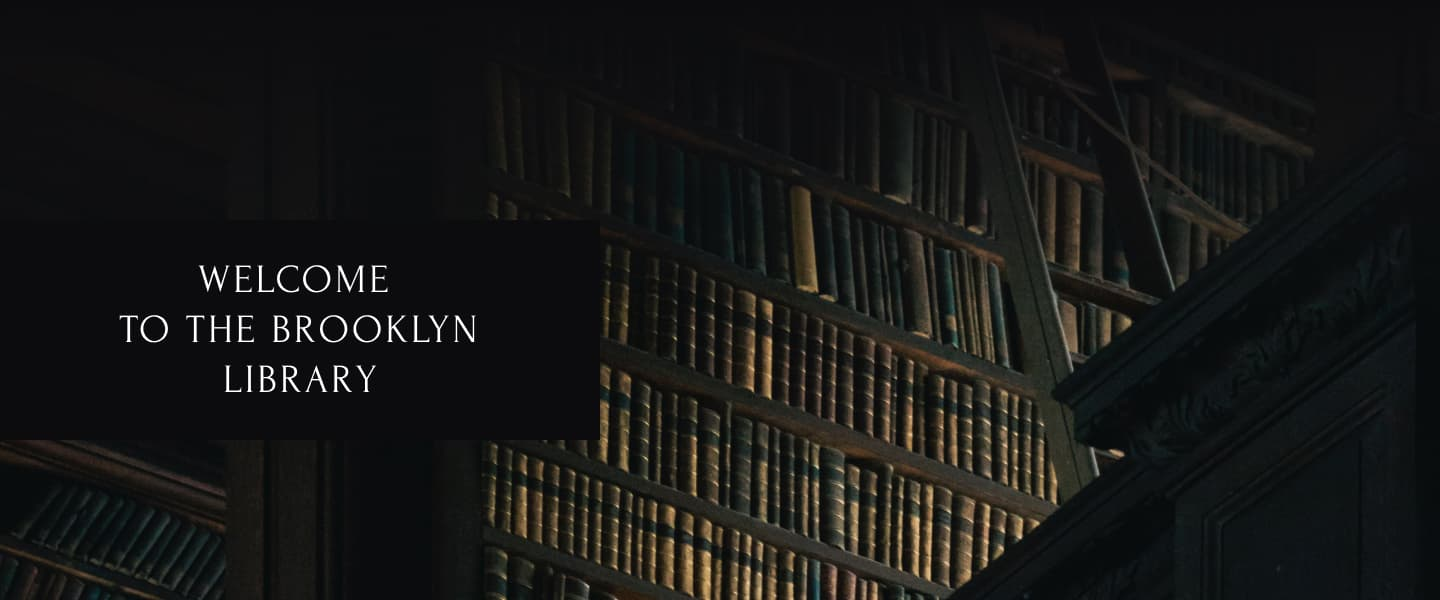
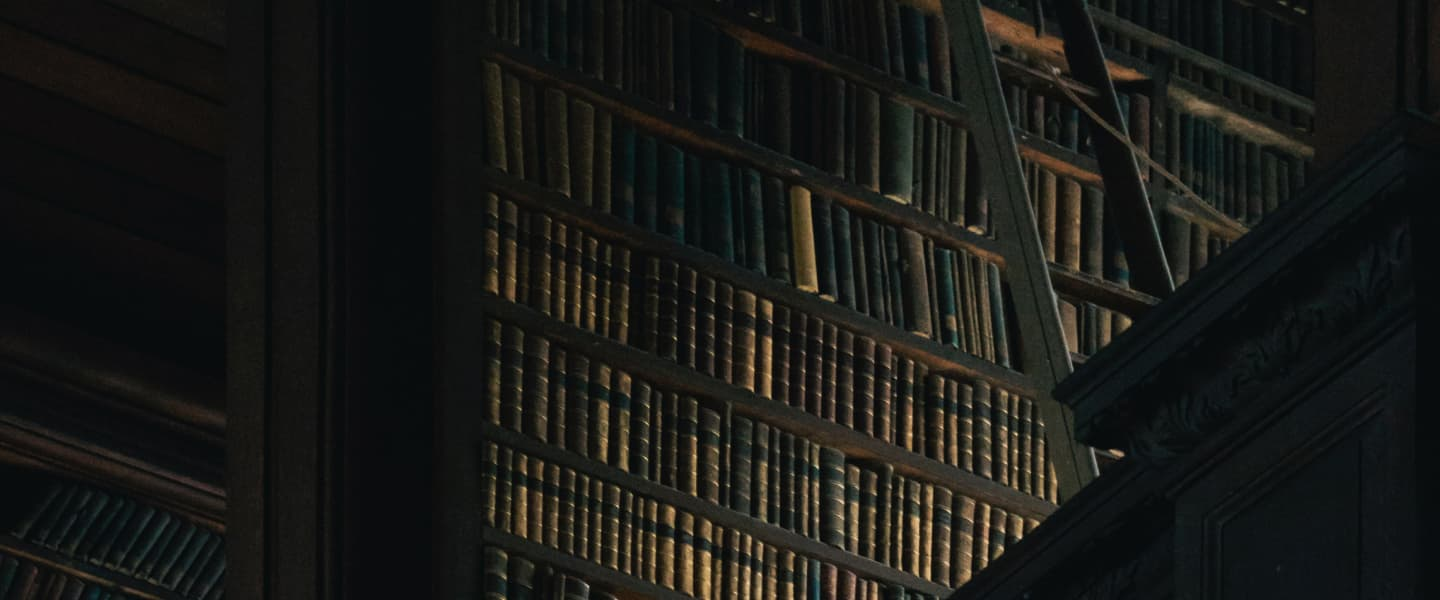
feat: add welcome section

diff --git a/index.html b/index.html
@@ -60,9 +60,10 @@
                                 </svg>
                             </button> -->
                         </nav>
-                        
+
                         <button class="btn header__profile-btn">
-                            <svg class="header__profile-btn-icon" width="28" height="28" viewBox="0 0 28 28" fill="none">
+                            <svg class="header__profile-btn-icon" width="28" height="28" viewBox="0 0 28 28"
+                                fill="none">
                                 <path fill-rule="evenodd" clip-rule="evenodd"
                                     d="M28 14C28 21.732 21.732 28 14 28C6.26801 28 0 21.732 0 14C0 6.26801 6.26801 0 14 0C21.732 0 28 6.26801 28 14ZM18.6667 7.77778C18.6667 10.3551 16.5774 12.4444 14.0001 12.4444C11.4227 12.4444 9.33339 10.3551 9.33339 7.77778C9.33339 5.20045 11.4227 3.11111 14.0001 3.11111C16.5774 3.11111 18.6667 5.20045 18.6667 7.77778ZM19.4998 16.2781C20.9584 17.7367 21.7778 19.715 21.7778 21.7778H14L6.22225 21.7778C6.22225 19.715 7.0417 17.7367 8.50031 16.2781C9.95893 14.8194 11.9372 14 14 14C16.0628 14 18.0411 14.8194 19.4998 16.2781Z"
                                     fill="currentColor" />
@@ -73,9 +74,8 @@
             </header>
             <main class="main">
                 <section class="welcome" id="welcome">
-                    <div class="container">
-                        <h1 class="welcome__title">Welcome to the Brooklyn Library</h1>
-                    </div>
+                    <div class="welcome__gradient"></div>
+                    <h2 class="welcome__title">Welcome <br> to the Brooklyn Library</h2>
                 </section>
 
                 <section class="about" id="about">

diff --git a/library/home/css/main.css b/library/home/css/main.css
@@ -1,1 +1,1 @@
-.header{background-color:#0c0c0e}.header__inner{display:flex;align-items:center;gap:4rem;padding:2rem 0}.header__profile-btn{padding:0;color:#fff}.header__profile-btn:hover{color:#bb945f}.logo{font-family:Forum-Regular,serif;font-size:3rem;line-height:1.66;letter-spacing:.6px;color:#fff}.navigation{margin-left:auto}.navigation__list{display:flex;gap:3rem}.navigation__list-link{font-size:2rem;line-height:2.5;color:#fff;transition:all .3s ease-in-out}.navigation__list-link:hover{color:#bb945f}
+.header{background-color:#0c0c0e}.header__inner{display:flex;align-items:center;gap:4rem;padding:2rem 0}.header__profile-btn{padding:0;color:#fff}.header__profile-btn:hover{color:#bb945f}.logo{font-family:Forum-Regular,serif;font-size:3rem;line-height:1.66;letter-spacing:.6px;color:#fff}.navigation{margin-left:auto}.navigation__list{display:flex;gap:3rem}.navigation__list-link{font-size:2rem;line-height:2.5;color:#fff;transition:all .3s ease-in-out}.navigation__list-link:hover{color:#bb945f}.welcome{position:relative;min-height:60rem;padding-top:22rem;background-image:url(../../img/desktop/welcome-bg.jpg)}.welcome__gradient{position:absolute;top:0;left:0;right:0;width:100%;max-height:30rem;height:100%;background:linear-gradient(180deg,#0c0c0e 0,#0c0c0e .01%,rgba(18,18,21,.1) 100%)}.welcome__title{max-width:60rem;padding:3.5rem 4rem;font-family:Forum-Regular,serif;font-size:4rem;line-height:1.25;letter-spacing:3px;text-align:center;text-transform:uppercase;color:#fff;background-color:#0c0c0e}
